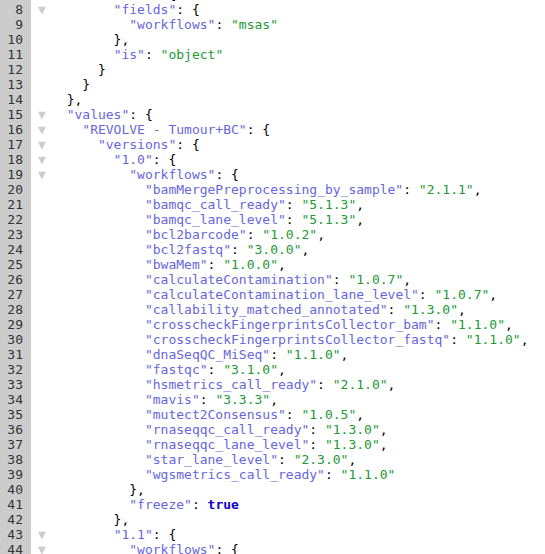
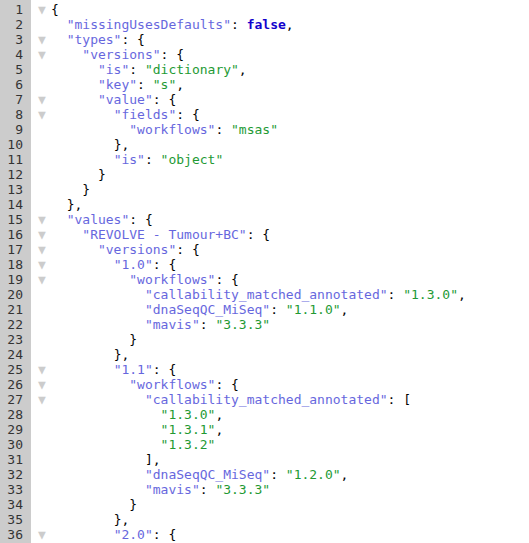
Some cosmetic updates, simplified handling of version control, better handling special scenarios

diff --git a/configScanner/__init__.py b/configScanner/__init__.py
@@ -3,39 +3,42 @@ import copy
 import json
 import os
 from json import JSONDecodeError
+from typing import OrderedDict
 
 
 class configScanner:
 
-    def __init__(self, config_data, olive_info, version_file):
+    def __init__(self, config_data, olive_info, output_json, version_file):
         self.report = {}
-        self.versions_checks = self.load_versions(version_file)
+        self.older_report = {}
+        if version_file is not None:
+            self.versions_checks = configScanner.load_versions(version_file)
+        if output_json is not None:
+            self.older_report = configScanner.load_report(output_json)
         self.versions_updated = False
         '''Get the data, make report'''
-        for conf in config_data.keys():
-            self.report[conf] = {}
-            if 'versions' in config_data[conf].keys():
-                for ver in config_data[conf]["versions"].keys():
-                    version_checker = self.get_checks(conf, ver)
+        for assay in config_data.keys():
+            self.report[assay] = {}
+            if 'versions' in config_data[assay].keys():
+                for version in config_data[assay]["versions"].keys():
+                    version_checker = self.get_checks(assay, version)
                     '''If we have version specified, account for it here'''
-                    self.report[conf][ver] = {}
-                    self.construct_report(conf,
-                                          ver,
-                                          config_data[conf]["versions"][ver],
+                    self.report[assay][version] = {}
+                    self.construct_report(assay,
+                                          version,
+                                          config_data[assay]["versions"][version],
                                           olive_info,
                                           version_checker)
-
-        if self.versions_updated:
-            self.update_versions_file(version_file)
 
     """
        Load version control data, if valid return a dict. Version-specific freeze flags may be present
        indicating that we do not want any new workflow versions to be added to these snippets
        we also need to check what we have in olives and update the settings, accordingly
     """
-    def load_versions(self, path) -> dict:
+    @staticmethod
+    def load_versions(path) -> dict:
         version_data = {}
-        if path != None and os.path.exists(path):
+        if path is not None and os.path.exists(path):
             try:
                 with open(path, "r") as f:
                     version_data = json.load(f)
@@ -45,9 +48,22 @@ class configScanner:
             '''Using olive info we can update versions for matching entries in version_data'''
         return version_data
 
-    '''Simple getter, return the value of versions update flag'''
-    def is_versions_updated(self):
-        return self.versions_updated
+    """
+       Load old report, if exists. It is needed to track the versions of workflows which may have already
+       been decommissioned. The construct_report function will use this info for updating vetted_report 
+    """
+    @staticmethod
+    def load_report(path) -> dict:
+        report_data = {}
+        if path is not None and os.path.exists(path):
+            try:
+                with open(path, "r") as f:
+                    report_data = json.load(f)
+                    print("INFO: Loaded older report data file")
+            except JSONDecodeError:
+                print("ERROR: Failed to load older report, invalid format")
+        return report_data
+
 
     '''Return the report dict to be used for HTML UI rendering'''
     def get_report(self):
@@ -63,21 +79,32 @@ class configScanner:
             else:
                 yield item
 
-    '''
-       In case we need to add new workflow versions, update the version-tracking file
-       This should trigger a creation of a JIRA ticket so that the version tracking file is updated
-    '''
-    def update_versions_file(self, versions_file):
-        if isinstance(self.versions_checks, dict) and len(self.versions_checks) > 0:
-            with open(versions_file, 'w') as vf:
-                json.dump(self.versions_checks, vf)
-            print("WARNING: version-tracking file was updated, take action")
+    @staticmethod
+    def deepsort_dict(input_dict, key=lambda item: item[0]) -> dict:
+        """
+        Recursively sorts an OrderedDict and its nested OrderedDicts.
+        Args:
+            input_dict (OrderedDict or dict): The dictionary to sort.
+            key (function): A function to extract a comparison key from each item.
+                            Defaults to sorting by key (item[0]).
+        Returns:
+            OrderedDict: A new OrderedDict with deeply sorted contents.
+        """
+        if not isinstance(input_dict, (OrderedDict, dict)):
+            return input_dict  # Not a dictionary, return as is
+        sorted_items = []
+        for k, v in sorted(input_dict.items(), key=key):
+            if isinstance(v, (OrderedDict, dict)):
+                sorted_items.append((k, configScanner.deepsort_dict(v, key)))
+            else:
+                sorted_items.append((k, v))
+        return OrderedDict(sorted_items)
 
     '''Save report into a .json file for further analysis'''
     def save_report(self, output_json: str):
-        vetted_od = collections.OrderedDict(sorted(self.report.items()))
+        vetted_od = configScanner.deepsort_dict(self.get_report())
         with open(output_json, "w") as wfj:
-            json.dump(vetted_od, wfj)
+            json.dump(vetted_od, wfj, indent=2)
             print(f"WARNING: Saved assay report into a .json file {output_json}")
 
     """
@@ -98,7 +125,7 @@ class configScanner:
        * returns False when it is not enabled in .jsonconfig 
        * returns True if this setting is enabled in the .jsonconfig or not None for pipelines
     """
-    def is_configured_2run(self, d1, d2):
+    def is_ok_2run(self, d1, d2):
         """Return True if all path->value in d2 that exist in d1 are not False or None in d1."""
         for k, v in d2.items():
             if k not in d1:
@@ -107,7 +134,7 @@ class configScanner:
             if isinstance(v, dict):
                 if not isinstance(d1[k], dict):
                     return False
-                if not self.is_configured_2run(d1[k], v):
+                if not self.is_ok_2run(d1[k], v):
                     return False
             else:
                 if d1[k] in [False, None]:
@@ -115,53 +142,75 @@ class configScanner:
         return True
 
     """
-        A small utility function for vetting version list (depends on settings)
+        A small utility function for vetting/tracking changes in version list (depends on settings and previous report)
     """
-    def get_vetted_versions(self, oli_name: str, oli_tags: set, versions_check, assay: str, assay_version: str):
+    def get_vetted_versions(self, oli_name: str, oli_tags: set, assay: str, assay_version: str) -> list:
         reported_olives = list(oli_tags)[0] if len(oli_tags) == 1 else list(oli_tags)
         try:
-            if 'freeze' in versions_check.keys():
-                reported_olives = [versions_check['workflows'][oli_name]]
-            elif oli_name in versions_check['workflows'].keys():
-                reported_olives = list(set(configScanner.flat2gen([reported_olives, versions_check['workflows'][oli_name]])))
-                controlled_list = versions_check['workflows'][oli_name]
-                if isinstance(controlled_list, str):
-                    controlled_list = [controlled_list]
-                if collections.Counter(reported_olives) != collections.Counter(controlled_list):
-                    self.versions_updated = True
-                    self.versions_checks['values'][assay]['versions'][assay_version]['workflows'][oli_name] = reported_olives
+            older_versions = self.older_report[assay][assay_version]
+            if oli_name in older_versions.keys():
+                reported_olives = list(set(configScanner.flat2gen([reported_olives, older_versions[oli_name]])))
+                older_scan_list = older_versions[oli_name]
+                if isinstance(older_scan_list, str):
+                    older_scan_list = [older_scan_list]
+                if collections.Counter(reported_olives) != collections.Counter(older_scan_list):
+                    print(f"INFO: We have a change for {oli_name} in {assay} version {assay_version}")
         except ValueError:
-            print("ERROR: Could not update the list of versions")
+            print(f"INFO: Could not find older report for {assay} version {assay_version}")
         except Exception as e:
-            print(f"ERROR: problem with {e} in versions_check dict")
+            print(f"ERROR: problem with {e} in get_vetted_versions")
         finally:
             return reported_olives
 
     """
-       fuses config assay_info and olive data. Returns a dict with all workflows which run for a setting snippet
+       Make sure we register values as the right type, also check if we have the same olive in report already -
+       this takes care of multiple olive files running the same workflow
+    """
+    def safe_register(self, versions: list, assay: str, assay_version: str, olive_name: str):
+        vetted_versions = versions
+        try:
+            existing_tags = self.report[assay][assay_version][olive_name]
+            if isinstance(existing_tags, str):
+                vetted_versions.append(existing_tags)
+            elif isinstance(existing_tags, list):
+                vetted_versions.extend(existing_tags)
+        except ValueError:
+            pass
+        except KeyError:
+            pass
+        '''Make sure we have unique tags in the list'''
+        if len(vetted_versions) > 1:
+            vetted_versions = list(set(vetted_versions))
+        '''Make sure we register str if there is only one value and array if there are multiple'''
+        if len(vetted_versions) == 1:
+            copied_tags = copy.deepcopy(vetted_versions)
+            self.report[assay][assay_version][olive_name] = str(copied_tags.pop())
+        else:
+            self.report[assay][assay_version][olive_name] = sorted(vetted_versions)
+
+    """
+       fuses config assay_info and olive data. (Returns a dict with all workflows which run for a setting snippet
        at this point we do not support custom wf versioning and report all tags if an olive has appropriate check
     """
     def construct_report(self, assay, assay_version, config: dict, olives: list, v_check: dict):
         try:
             for oli in olives:
-                '''Olive has checks, verify that it is enabled in the config'''
-                '''if an olive does not have checks, it will run regardless'''
-                '''if we have a dict with wf versions, use it'''
-                if (len(oli['checks']) > 0 and self.is_configured_2run(config, oli['checks'])) or len(oli['checks']) == 0:
+                """Olive has checks, verify that it is enabled in the config
+                   if an olive does not have checks, it will run regardless
+                   if we have a dict with wf versions, use it
+                """
+                if (len(oli['checks']) > 0 and self.is_ok_2run(config, oli['checks'])) or len(oli['checks']) == 0:
                     for n in oli['names']:
-                        '''Get info from version_check if available, add version from olive if the config is not frozen'''
+                        '''Get info from version_check, add version from olive if the config is not frozen'''
                         vetted_versions = oli['tags']
                         if len(v_check) > 0 and n in v_check['workflows'].keys():
-                            vetted_versions = self.get_vetted_versions(n,
-                                                                       oli['tags'],
-                                                                       v_check,
-                                                                       assay,
-                                                                       assay_version)
-                        '''If there are no version restriction, use tags from olives only'''
-                        if len(vetted_versions) > 1:
-                            self.report[assay][assay_version][n] = list(vetted_versions)
-                        elif len(vetted_versions) == 1:
-                            copied_tags = copy.deepcopy(vetted_versions)
-                            self.report[assay][assay_version][n] = str(copied_tags.pop())
+                            if isinstance(v_check['workflows'][n], str):
+                                vetted_versions = [v_check['workflows'][n]]
+                            else:
+                                vetted_versions = v_check['workflows'][n]
+                        elif len(self.older_report) > 0:
+                            vetted_versions = self.get_vetted_versions(n, oli['tags'], assay, assay_version)
+                        '''Handle lists of tags and single tags differently, single entry is a str type'''
+                        self.safe_register(vetted_versions, assay, assay_version, n)
         except:
             print("ERROR: Could not construct workflow report given the inputs")

diff --git a/htmlRenderer/__init__.py b/htmlRenderer/__init__.py
@@ -36,12 +36,12 @@ def today_date() -> str:
 def convert2datachunk(input: str) -> str:
     try:
         with open(input, 'r') as inJson:
-            datachunk = json.load(inJson)
-            return json.dumps(datachunk)
+            data_chunk = json.load(inJson)
+            return json.dumps(data_chunk)
     except FileNotFoundError:
         print(f'ERROR: Could not find file {input}')
     except ValueError:
-        print(f'ERROR: Could not read JSON data')
+        print('ERROR: Could not read JSON data')
     return "{}"
 
 
@@ -49,13 +49,13 @@ def convert2datachunk(input: str) -> str:
    Read the text of the script and return it as a str to embed into HTML page
 """
 def append_script(path: str)->str:
-    scriptText = ""
+    script_text = ""
     try:
         with open(path, 'r') as inScript:
             lines = inScript.readlines()
         for l in lines:
-            scriptText += l
+            script_text += l
     except:
         print(f"ERROR: Could not read from {path} to load the javascript")
         exit(1)
-    return scriptText
+    return script_text

diff --git a/README.md b/README.md
@@ -1,12 +1,15 @@
 # configScanner
 A tracker showing which workflows would run for a given assay. Takes in account both the setting 
-for assays and existing checks in olives. 
+for assays and existing checks in olives. If available, version control .jsonconfig will be checked
+if a workflow version is specified in this file, it will override the version information
+from an olive scan. 
 
 These scripts are for getting information from Bitbucket analysis-config repository. They read
 olive files and assay configuration file combining this information and presenting a list of 
-workflows which would run for a given assay given exisiting settings.
+workflows which would run for a given assay given exisiting settings. Reported data may be used
+for tracking any versions of workflows ran for a given assay/version combination.
 
-reports iare in .json and .html formats. Developed in Python 3.12, these script should run with older
+reports are in .json and .html formats. Developed in Python 3.12, these script should run with older
 (3.10+) python libraries as well.
 
 ![HTML output](docs/Screenshot_configScanner.png)
@@ -53,7 +56,7 @@ Following options are available:
 
 * -s Settings file in TOML format (Default is config.toml)
 * -i Instance to scan - this is required, has to match the directory in code repository with olive files
-* -o Output json, data dump       (Default is enabled_workflows.json)
+* -o Output json, data dump       (Default is enabled_workflows.jsoni, this is also checked and updated)
 * -p Output HTML page             (Default is running_workflows.html)
 * -j Path to JavaScript file for embedding into HTML report page
 * -r Path to version control file, not required but can be used to control versions of enabled workflows
@@ -69,12 +72,9 @@ together with assay settings. After bringing all of these data together, the scr
 
 # Workflow version control
 
-Workflow version control is designed around checking and updating a version controlling .jsonconfig file. The syntax is 
-very similar to the syntax of the report file, but it may be used for
-
-* controlling version of workflows for selected assays/olive combinations
-* automatic updates when olives with new workflow versions are deployed
-* freezing configs of selected Assay/version to prevent running any updated workflows
+Workflow version control is designed around checking and [manually] updating a version controlling .jsonconfig file. The syntax is 
+very similar to the syntax of the report file, but it may be used for controlling version of workflows for 
+selected assays/olive combinations
 
 ![Version control file](docs/Screenshot_workflowVersions.png)
 
@@ -84,7 +84,7 @@ The logic of version control can be also summarized as the following flowchart:
 
 As the diagram shows, we may have a situation when a new workflow appears in production environment that we are 
 scanning. In this case the workflow version will be registered with all assays which are running it unless
-the configurqation is frozen.
+the configurqation is controlled by version control .jsonconfig.
 
 # Running as a cron job
 
